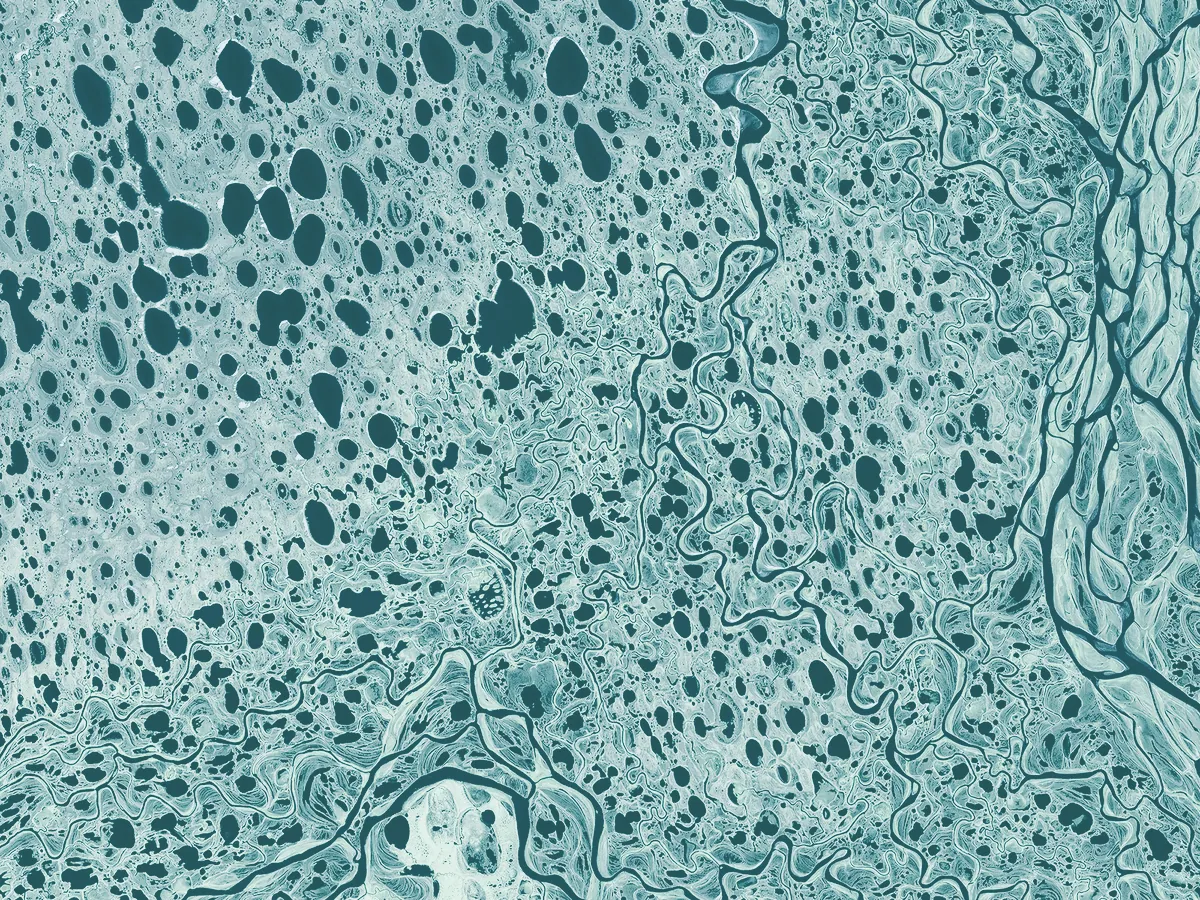
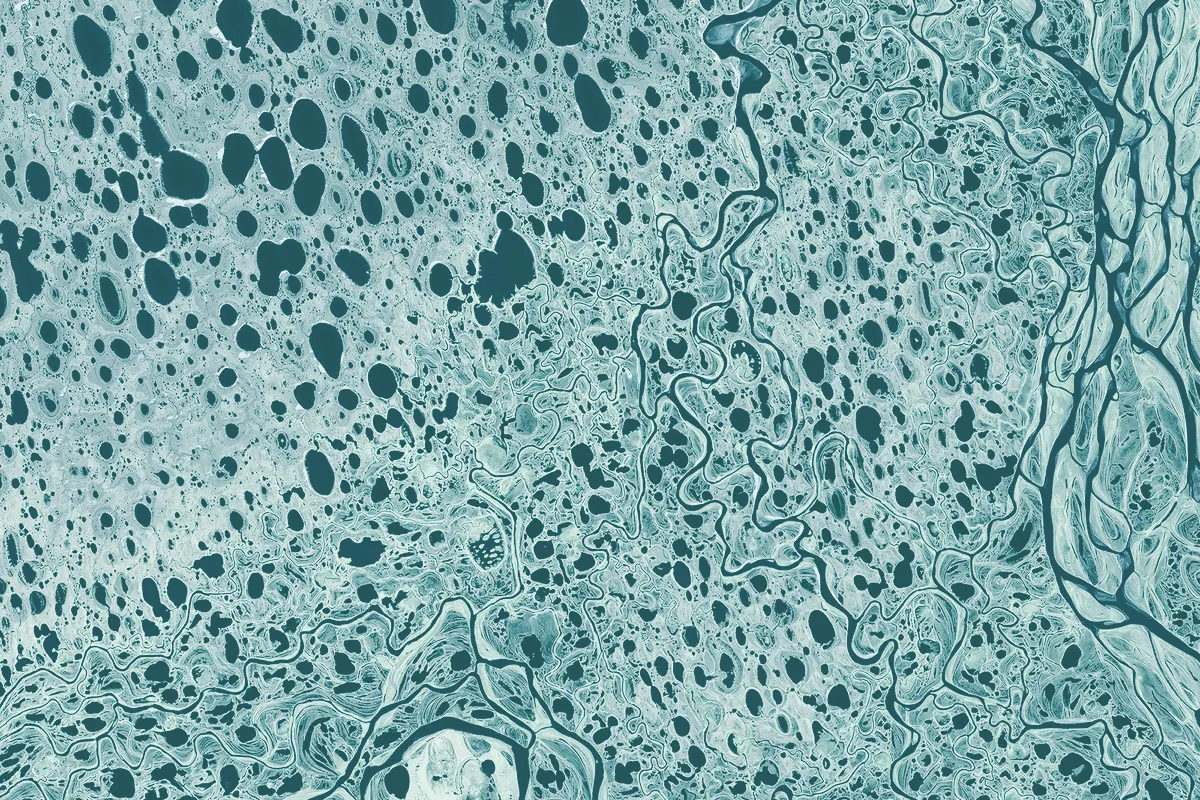
Use the linked pages' own figures for the cards; trim the hero; ban Forty-Eight Hours
- scripts/grab_images.py: screenshots each live page (or downloads a repo file) into the Images folder, outside the repo
- build_images.py: pixel-box crops for captured figures, 3:2 cards; the figures are detuned into the fjord scale like the photographs
- Cards for Tulip, Wildcat, APA_awards, Volve Surfaces, Relief, SubScout and seismic_art_gallery now show their own figures; Pinpoints-and-Echoes, Plate and Sheet keep a photograph (no static image)
- Footer carries the data credit lines the pictures need (Sodir, Relief inputs, Volve, synthetic note)
- Removed the "Who is behind this" section and the text under the headline
- Viz_demo_generic ("Forty-Eight Hours") removed from the page and added to the ban list
- tests: credits, removed items stay removed, tones for every picture

Claude-Session: https://claude.ai/code/session_01XvpqcXKQN6hrUjjNqUZb2S

diff --git a/site/style.css b/site/style.css
@@ -27,8 +27,7 @@ a { color: inherit; }
 .hero-copy { text-align: center; padding: 120px 0 150px; max-width: 820px; margin-inline: auto; }
 .eyebrow { margin: 0 0 22px; font: 500 12px/1.4 var(--ss-font-mono); letter-spacing: .14em; text-transform: uppercase; color: var(--ss-text-subtle); }
 h1 { margin: 0; font: 400 clamp(2.8rem, 7.4vw, 5.6rem)/1.02 var(--ss-font-display); letter-spacing: -.025em; text-wrap: balance; }
-.lede { margin: 26px auto 0; max-width: 40ch; font-size: clamp(1.06rem, 1.5vw, 1.22rem); color: var(--ss-text-subtle); text-wrap: pretty; }
-.cta { display: flex; flex-wrap: wrap; justify-content: center; gap: 14px; margin: 38px 0 0; }
+.cta { display: flex; flex-wrap: wrap; justify-content: center; gap: 14px; margin: 44px 0 0; }
 
 /* buttons */
 .btn { display: inline-flex; align-items: center; gap: .55em; padding: .82em 1.55em; border-radius: 999px; border: 1px solid transparent;
@@ -48,13 +47,12 @@ h2 { margin: 0; font: 400 clamp(2rem, 4.2vw, 3rem)/1.1 var(--ss-font-display); l
 
 /* cards */
 .grid { display: grid; gap: var(--gap); }
-.grid-2 { grid-template-columns: repeat(2, 1fr); }
 .grid-3 { grid-template-columns: repeat(3, 1fr); }
 .card { display: flex; flex-direction: column; background: var(--ss-surface-raised); border-radius: var(--radius); overflow: hidden;
   box-shadow: 0 1px 0 color-mix(in srgb, var(--ss-border-subtle) 80%, transparent), 0 18px 40px -28px rgb(20 40 50 / .35);
   transition: transform .5s var(--ease), box-shadow .5s var(--ease); }
 .card:hover { transform: translateY(-4px); box-shadow: 0 1px 0 var(--ss-border-subtle), 0 28px 56px -30px rgb(20 40 50 / .45); }
-.card-media { display: block; overflow: hidden; aspect-ratio: 4 / 3; background: var(--ss-fjord-3); }
+.card-media { display: block; overflow: hidden; aspect-ratio: 3 / 2; background: var(--ss-fjord-3); }
 .card-media img { width: 100%; height: 100%; object-fit: cover; transition: transform 1.2s var(--ease); }
 .card:hover .card-media img { transform: scale(1.045); }
 .card-body { display: flex; flex-direction: column; gap: 10px; padding: 26px 28px 30px; flex: 1; }
@@ -71,9 +69,8 @@ h3 a { text-decoration: none; }
 .card.feature h3 { font-size: clamp(1.8rem, 3.2vw, 2.5rem); }
 .card.feature .card-body p:not(.kicker):not(.card-links) { font-size: 1.05rem; }
 
-/* about and footer */
-.about { max-width: 640px; margin-inline: auto; text-align: center; padding: clamp(88px, 12vw, 150px) 0 clamp(70px, 9vw, 110px); }
-.about p { margin: 18px 0 0; font-size: 1.12rem; color: var(--ss-text-muted); text-wrap: pretty; }
+/* footer */
+main { padding-bottom: clamp(80px, 11vw, 140px); }
 footer { border-top: 1px solid var(--ss-border-subtle); padding: 34px 0 52px; font-size: 13px; color: var(--ss-text-muted); }
 footer .wrap { display: grid; gap: 8px; }
 footer p { margin: 0; max-width: 90ch; }
@@ -98,10 +95,10 @@ footer a { color: var(--ss-link); text-underline-offset: 3px; }
 @media (max-width: 900px) {
   .grid-3 { grid-template-columns: repeat(2, 1fr); }
   .card.feature { flex-direction: column; }
-  .card.feature .card-media { min-height: 0; aspect-ratio: 4 / 3; flex: none; }
+  .card.feature .card-media { min-height: 0; aspect-ratio: 3 / 2; flex: none; }
 }
 @media (max-width: 620px) {
-  .grid-2, .grid-3 { grid-template-columns: 1fr; }
+  .grid-3 { grid-template-columns: 1fr; }
   .top nav { display: none; }
   .top { justify-content: space-between; }
   .hero-copy { padding: 110px 0 120px; }

diff --git a/scripts/build_site.py b/scripts/build_site.py
@@ -63,6 +63,9 @@ def check(pages: dict, images: dict) -> list[str]:
         bad.append(f"hero primary points at unknown card {to!r}")
     if pages["hero"]["image"] not in images["sources"]:
         bad.append("hero picture key is not in images.yaml")
+    for k, s in used_sources(pages, images).items():
+        if "file" not in s and "lines" not in s:
+            bad.append(f"picture source {k} has no credit lines (use an empty list if none are needed)")
     if not (ROOT / "images" / "hero.webp").exists():
         bad.append("images/hero.webp is missing (run scripts/build_images.py)")
     for c in cards(pages):
@@ -88,7 +91,7 @@ def card_html(c: dict) -> str:
     cls = "card reveal" + (" feature" if c.get("feature") else "")
     return f"""      <article class="{cls}" id="{e(c['id'])}">
         <a class="card-media" href="{e(main)}" target="_blank" rel="noopener" tabindex="-1" aria-hidden="true">
-          <img src="images/{e(c['id'])}.webp" alt="" width="1200" height="900" loading="lazy" decoding="async">
+          <img src="images/{e(c['id'])}.webp" alt="" width="1200" height="800" loading="lazy" decoding="async">
         </a>
         <div class="card-body">
           <p class="kicker">{e(c['kind'])}</p>
@@ -100,22 +103,33 @@ def card_html(c: dict) -> str:
 
 
 def section_html(sec: dict) -> str:
-    cols = "grid-2" if len(sec["cards"]) in (4, 5) else "grid-3"
-    body = "\n".join(card_html(c) for c in sec["cards"])
+    body = "\n".join(card_html(c) for c in sec["cards"])  # a feature card spans the row; the rest sit three across
     return f"""  <section class="band" id="{e(sec['id'])}">
     <div class="wrap">
       <div class="band-head reveal"><h2>{e(sec['heading'])}</h2><p>{e(sec['intro'])}</p></div>
-      <div class="grid {cols}">
+      <div class="grid grid-3">
 {body}
       </div>
     </div>
   </section>"""
 
 
-def credits(pages: dict, images: dict) -> str:
-    used = {pages["hero"]["image"]} | {c["image"]["key"] for c in cards(pages)}
-    names = [f'<a href="{e(s["url"])}" target="_blank" rel="noopener">{e(s["credit"])}</a>' for k, s in images["sources"].items() if k in used]
-    return ", ".join(names[:-1]) + " and " + names[-1] if len(names) > 1 else names[0]
+def used_sources(pages: dict, images: dict) -> dict[str, dict]:
+    keys = {pages["hero"]["image"]} | {c["image"]["key"] for c in cards(pages)}
+    return {k: s for k, s in images["sources"].items() if k in keys}
+
+
+def credits(pages: dict, images: dict) -> tuple[str, str]:
+    """The footer's picture credits: photographers (Unsplash), and the data lines for pictures cut from the linked pages."""
+    used = used_sources(pages, images)
+    names = [f'<a href="{e(s["url"])}" target="_blank" rel="noopener">{e(s["credit"])}</a>' for s in used.values() if "file" in s]
+    photos = ", ".join(names[:-1]) + " and " + names[-1] if len(names) > 1 else names[0]
+    lines: list[str] = []
+    for s in used.values():
+        for ln in s.get("lines", []):
+            if ln not in lines:
+                lines.append(ln)
+    return photos, " ".join(e(ln) for ln in lines)
 
 
 def page(pages: dict, images: dict) -> str:
@@ -123,6 +137,7 @@ def page(pages: dict, images: dict) -> str:
     to = h["primary"]["to"]
     nav = "".join(f'<a href="#{e(s["id"])}">{e(n)}</a>' for s, n in zip(pages["sections"], ("Stories", "Explore", "Tools"), strict=True))
     sections = "\n".join(section_html(s) for s in pages["sections"])
+    photos, lines = credits(pages, images)
     return f"""<!doctype html>
 <html lang="en-GB" data-type="ledger" data-palette="tide" data-surface="nordic-cool">
 <head>
@@ -150,19 +165,14 @@ def page(pages: dict, images: dict) -> str:
     <div class="wrap hero-copy">
       <p class="eyebrow">Subsurface stories, maps and tools</p>
       <h1>{e(h['headline'])}</h1>
-      <p class="lede">{e(h['lede'])}</p>
       <p class="cta"><a class="btn btn-primary" href="#{e(to)}">{e(h['primary']['label'])}</a><a class="btn btn-quiet" href="{e(h['secondary']['to'])}">{e(h['secondary']['label'])}</a></p>
     </div>
   </section>
 {sections}
-  <section class="wrap about reveal">
-    <h2>{e(pages['about']['heading'])}</h2>
-    <p>{e(pages['about']['text'])}</p>
-  </section>
 </main>
 <footer>
   <div class="wrap">
-    <p>Photographs by {credits(pages, images)}, from Unsplash (Unsplash License), detuned into the fjord colour scale of SubScout.</p>
+    <p>Card pictures are cut from the linked pages' own figures, and from photographs by {photos} (Unsplash, Unsplash License), all detuned into the fjord colour scale of SubScout. {lines}</p>
     <p>Colours, type and theme switch from <a href="{REPO_URL}/SubScout" target="_blank" rel="noopener">SubScout</a>. Every page linked here is built from open data and states its sources on the page.</p>
     <p>Built with Overlook by Adam McCarthy (<a href="{SELF_URL}" target="_blank" rel="noopener">{SELF_URL}</a>). MIT License with Acknowledgement.</p>
   </div>

diff --git a/scripts/build_images.py b/scripts/build_images.py
@@ -1,9 +1,10 @@
-"""Detune the source photographs into SubScout's fjord colour scale.
+"""Detune the source pictures into SubScout's fjord colour scale.
 
-Each card's picture is a crop of one of the originals (data/pages.yaml), mapped through the fjord ramp by
-luminance, its tones compressed so the darkest and lightest stay calm, with a little of the original's colour kept
-underneath. The result is written to images/<card>.webp (and images/hero.webp). The originals live outside the
-repo; set OVERLOOK_IMAGES or edit `folder` in data/images.yaml.
+Each card's picture is a crop of one of the originals (data/pages.yaml): a photograph, or a figure captured from the
+linked page by scripts/grab_images.py. It is mapped through the fjord ramp by luminance, its tones compressed so the
+darkest and lightest stay calm, with a little of the original's colour kept underneath. The result is written to
+images/<card>.webp (and images/hero.webp). The originals live outside the repo; set OVERLOOK_IMAGES or edit `folder`
+in data/images.yaml.
 
 Usage: python scripts/build_images.py [card ids ...]
 """
@@ -21,7 +22,7 @@ import yaml
 from PIL import Image, ImageOps
 
 ROOT = Path(__file__).resolve().parents[1]
-CARD_SIZE = (1200, 900)  # 4:3
+CARD_SIZE = (1200, 800)  # 3:2
 HERO_WIDTH = 2400
 
 
@@ -49,7 +50,14 @@ def detune(img: Image.Image, ramp: np.ndarray, low: float, high: float, keep: fl
     return Image.fromarray((np.clip(out, 0, 1) * 255 + 0.5).astype(np.uint8))
 
 
-def crop(img: Image.Image, cx: float, cy: float, w: float, aspect: float) -> Image.Image:
+def crop(img: Image.Image, spec: dict, aspect: float) -> Image.Image:
+    """A photograph is cut by centre and width (fractions); a captured figure by a pixel box (x, y, width, height)."""
+    if "box" in spec:
+        x, y, w, h = spec["box"]
+        if abs(w / h - aspect) > 0.02:
+            raise SystemExit(f"crop box {spec['box']} is not {aspect:.2f}:1")
+        return img.crop((x, y, x + w, y + h))
+    cx, cy, w = spec["cx"], spec["cy"], spec["w"]
     iw, ih = img.size
     bw = min(w * iw, ih * aspect)
     bh = bw / aspect
@@ -63,6 +71,14 @@ def main(only: list[str]) -> None:
     pages = yaml.safe_load((ROOT / "data" / "pages.yaml").read_text(encoding="utf-8"))
     folder = Path(os.environ.get("OVERLOOK_IMAGES") or ROOT / cfg["folder"]).resolve()
     ramp = fjord_ramp()
+
+    def source_path(key: str) -> Path:
+        src = cfg["sources"][key]
+        if "file" in src:
+            return folder / src["file"]
+        suffix = Path(src["download"]).suffix if "download" in src else ".png"
+        return folder / "captures" / f"{key}{suffix}"
+
     out = ROOT / "images"
     out.mkdir(exist_ok=True)
     jobs = [("hero", pages["hero"]["image"], None)]
@@ -74,14 +90,14 @@ def main(only: list[str]) -> None:
         if only and name not in only:
             continue
         if key not in cache:
-            cache[key] = ImageOps.exif_transpose(Image.open(folder / cfg["sources"][key]["file"]))
+            cache[key] = ImageOps.exif_transpose(Image.open(source_path(key)))
         img = cache[key]
         if spec is None:  # the hero: the whole picture, lighter
             tone, size = cfg["tone"]["hero"], (HERO_WIDTH, round(HERO_WIDTH * img.height / img.width))
             piece = img
         else:
             tone, size = cfg["tone"]["card"], CARD_SIZE
-            piece = crop(img, spec["cx"], spec["cy"], spec["w"], CARD_SIZE[0] / CARD_SIZE[1])
+            piece = crop(img, spec, CARD_SIZE[0] / CARD_SIZE[1])
         piece = piece.resize(size, Image.LANCZOS)
         result = detune(piece, ramp, tone["low"], tone["high"], cfg["keep"])
         path = out / f"{name}.webp"

diff --git a/tests/test_site.py b/tests/test_site.py
@@ -1,5 +1,6 @@
 """The landing page's data are consistent, its pictures are the right size and its markup is sound."""
 
+import html
 import os
 import re
 import urllib.request
@@ -52,10 +53,9 @@ def test_live_links_point_at_their_own_repo():
 
 def test_one_feature_card_and_no_numbers_in_blurbs():
     assert sum(1 for c in CARDS if c.get("feature")) == 1
-    # blurbs quote no figures except a date and paper sizes, so none needs a source line (the truth gate)
+    # blurbs quote no figures except paper sizes, so none needs a source line (the truth gate)
     for c in CARDS:
-        assert not re.search(r"\d", re.sub(r"5 November 2026|A4 to A0", "", c["blurb"])), c["id"]
-    assert not re.search(r"\d", PAGES["hero"]["lede"] + PAGES["about"]["text"])
+        assert not re.search(r"\d", re.sub(r"A4 to A0", "", c["blurb"])), c["id"]
 
 
 def test_pictures_have_the_stated_size():
@@ -76,11 +76,12 @@ def test_fjord_ramp_comes_from_the_tokens():
 
 def test_detuned_picture_stays_inside_the_ramp_tones():
     ramp = build_images.fjord_ramp()
-    with Image.open(ROOT / "images" / "wildcat.webp") as im:
-        lum = np.asarray(im.convert("L"))
     darkest = ramp[0] @ [0.299, 0.587, 0.114] * 255
-    assert lum.min() >= darkest - 20  # no black: the tones are compressed
-    assert lum.max() <= 250
+    for f in (ROOT / "images").glob("*.webp"):
+        with Image.open(f) as im:
+            lum = np.asarray(im.convert("L"))
+        assert lum.min() >= darkest - 20, f.name  # no black: the tones are compressed
+        assert lum.max() <= 253, f.name  # and no pure white (a figure's paper becomes the palest fjord step)
 
 
 def test_markup(built):
@@ -96,11 +97,27 @@ def test_markup(built):
     assert "Built with Overlook by Adam McCarthy (https://github.com/AdmcCarthy/Overlook)" in text
 
 
-def test_every_credited_photographer_appears(built):
+def test_every_credit_the_pictures_need_appears(built):
     _, page = built
-    used = {PAGES["hero"]["image"]} | {c["image"]["key"] for c in CARDS}
-    for k in used:
-        assert IMAGES["sources"][k]["credit"] in page
+    text = html.unescape(re.sub(r"<[^>]+>", "", page))
+    used = build_site.used_sources(PAGES, IMAGES)
+    for k, s in used.items():
+        if "file" in s:
+            assert s["credit"] in text, k  # the photographer
+        for line in s.get("lines", []):
+            assert line in text, k  # the data lines for pictures cut from the linked pages
+    # the Volve picture carries the Volve terms' line, generalised
+    assert "Contains data from the Volve data village" in text and "Generalised for display." in text
+    assert "Source: Sodir." in text
+
+
+def test_removed_things_stay_removed(built):
+    _, page = built
+    assert "Who is behind this" not in page and 'class="about' not in page
+    assert 'class="lede"' not in page  # no text under the headline
+    assert "Forty-Eight" not in page and "Viz_demo_generic" not in page
+    assert "viz_demo_generic" in build_site.excluded()
+    assert "forty-eight" not in {c["id"] for c in CARDS}
 
 
 def test_style_uses_tokens_not_colours():

diff --git a/scripts/grab_images.py b/scripts/grab_images.py
@@ -1,0 +1,57 @@
+"""Fetch the originals for the picture sources that are figures, not photographs.
+
+Each `capture` source in data/images.yaml is a screenshot of a published page (headless Chrome, light scheme where the
+page allows it); each `download` source is one file from a repository. They are written to <folder>/captures/<key>.png
+(or .jpg), outside the repo, and scripts/build_images.py cuts and detunes them. Nothing here is committed.
+
+Usage: python scripts/grab_images.py [keys ...]
+"""
+
+from __future__ import annotations
+
+import os
+import subprocess
+import sys
+import urllib.request
+from pathlib import Path
+
+import yaml
+
+ROOT = Path(__file__).resolve().parents[1]
+
+
+def folder(cfg: dict) -> Path:
+    return Path(os.environ.get("OVERLOOK_IMAGES") or ROOT / cfg["folder"]).resolve() / "captures"
+
+
+def original(cfg: dict, key: str) -> Path:
+    """Where a figure source's original lives (a download keeps its own extension)."""
+    src = cfg["sources"][key]
+    suffix = Path(src["download"]).suffix if "download" in src else ".png"
+    return folder(cfg) / f"{key}{suffix}"
+
+
+def main(only: list[str]) -> None:
+    cfg = yaml.safe_load((ROOT / "data" / "images.yaml").read_text(encoding="utf-8"))
+    out = folder(cfg)
+    out.mkdir(parents=True, exist_ok=True)
+    chrome = os.environ.get("CHROME") or cfg["chrome"]
+    for key, src in cfg["sources"].items():
+        if "file" in src or (only and key not in only):
+            continue
+        path = original(cfg, key)
+        if "download" in src:
+            urllib.request.urlretrieve(src["download"], path)
+        else:
+            w, h = src["capture"]["window"]
+            subprocess.run(
+                [chrome, "--headless=new", "--disable-gpu", "--hide-scrollbars", "--blink-settings=preferredColorScheme=0",
+                 f"--window-size={w},{h}",
+                 "--virtual-time-budget=60000", f"--screenshot={path}", src["capture"]["url"]],
+                check=True, capture_output=True,
+            )
+        print(f"{path.name}: {path.stat().st_size / 1024:.0f} kB")
+
+
+if __name__ == "__main__":
+    main(sys.argv[1:])
